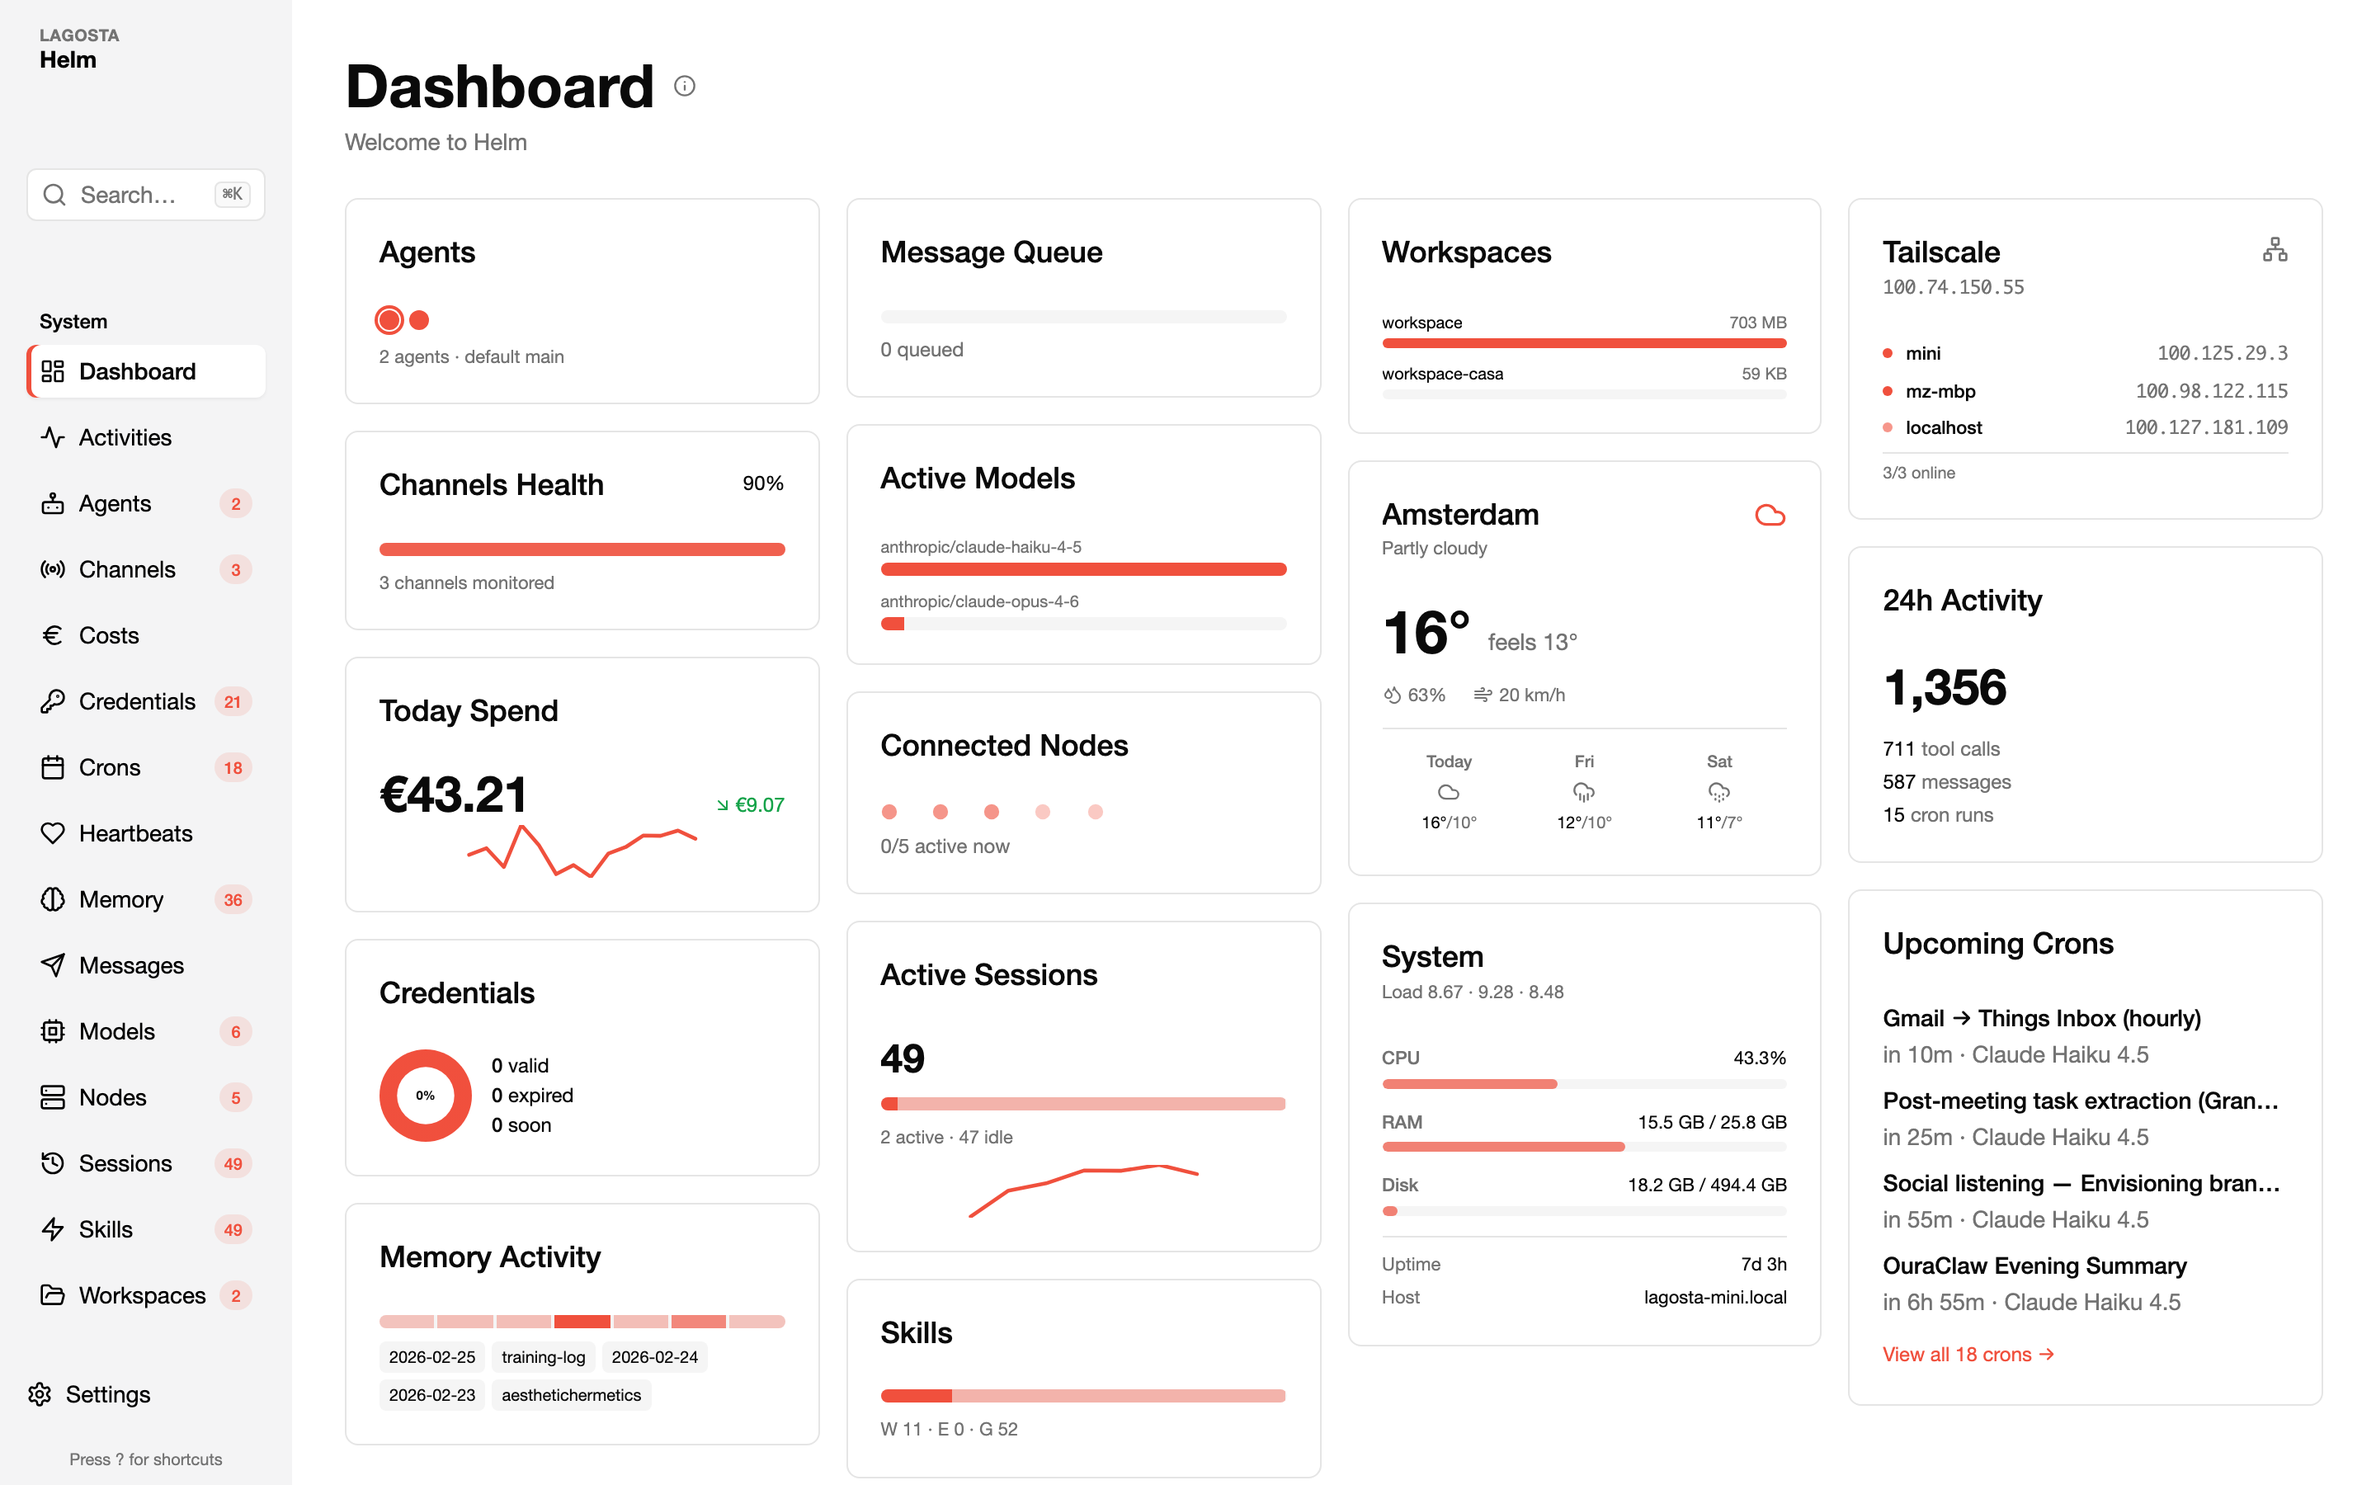
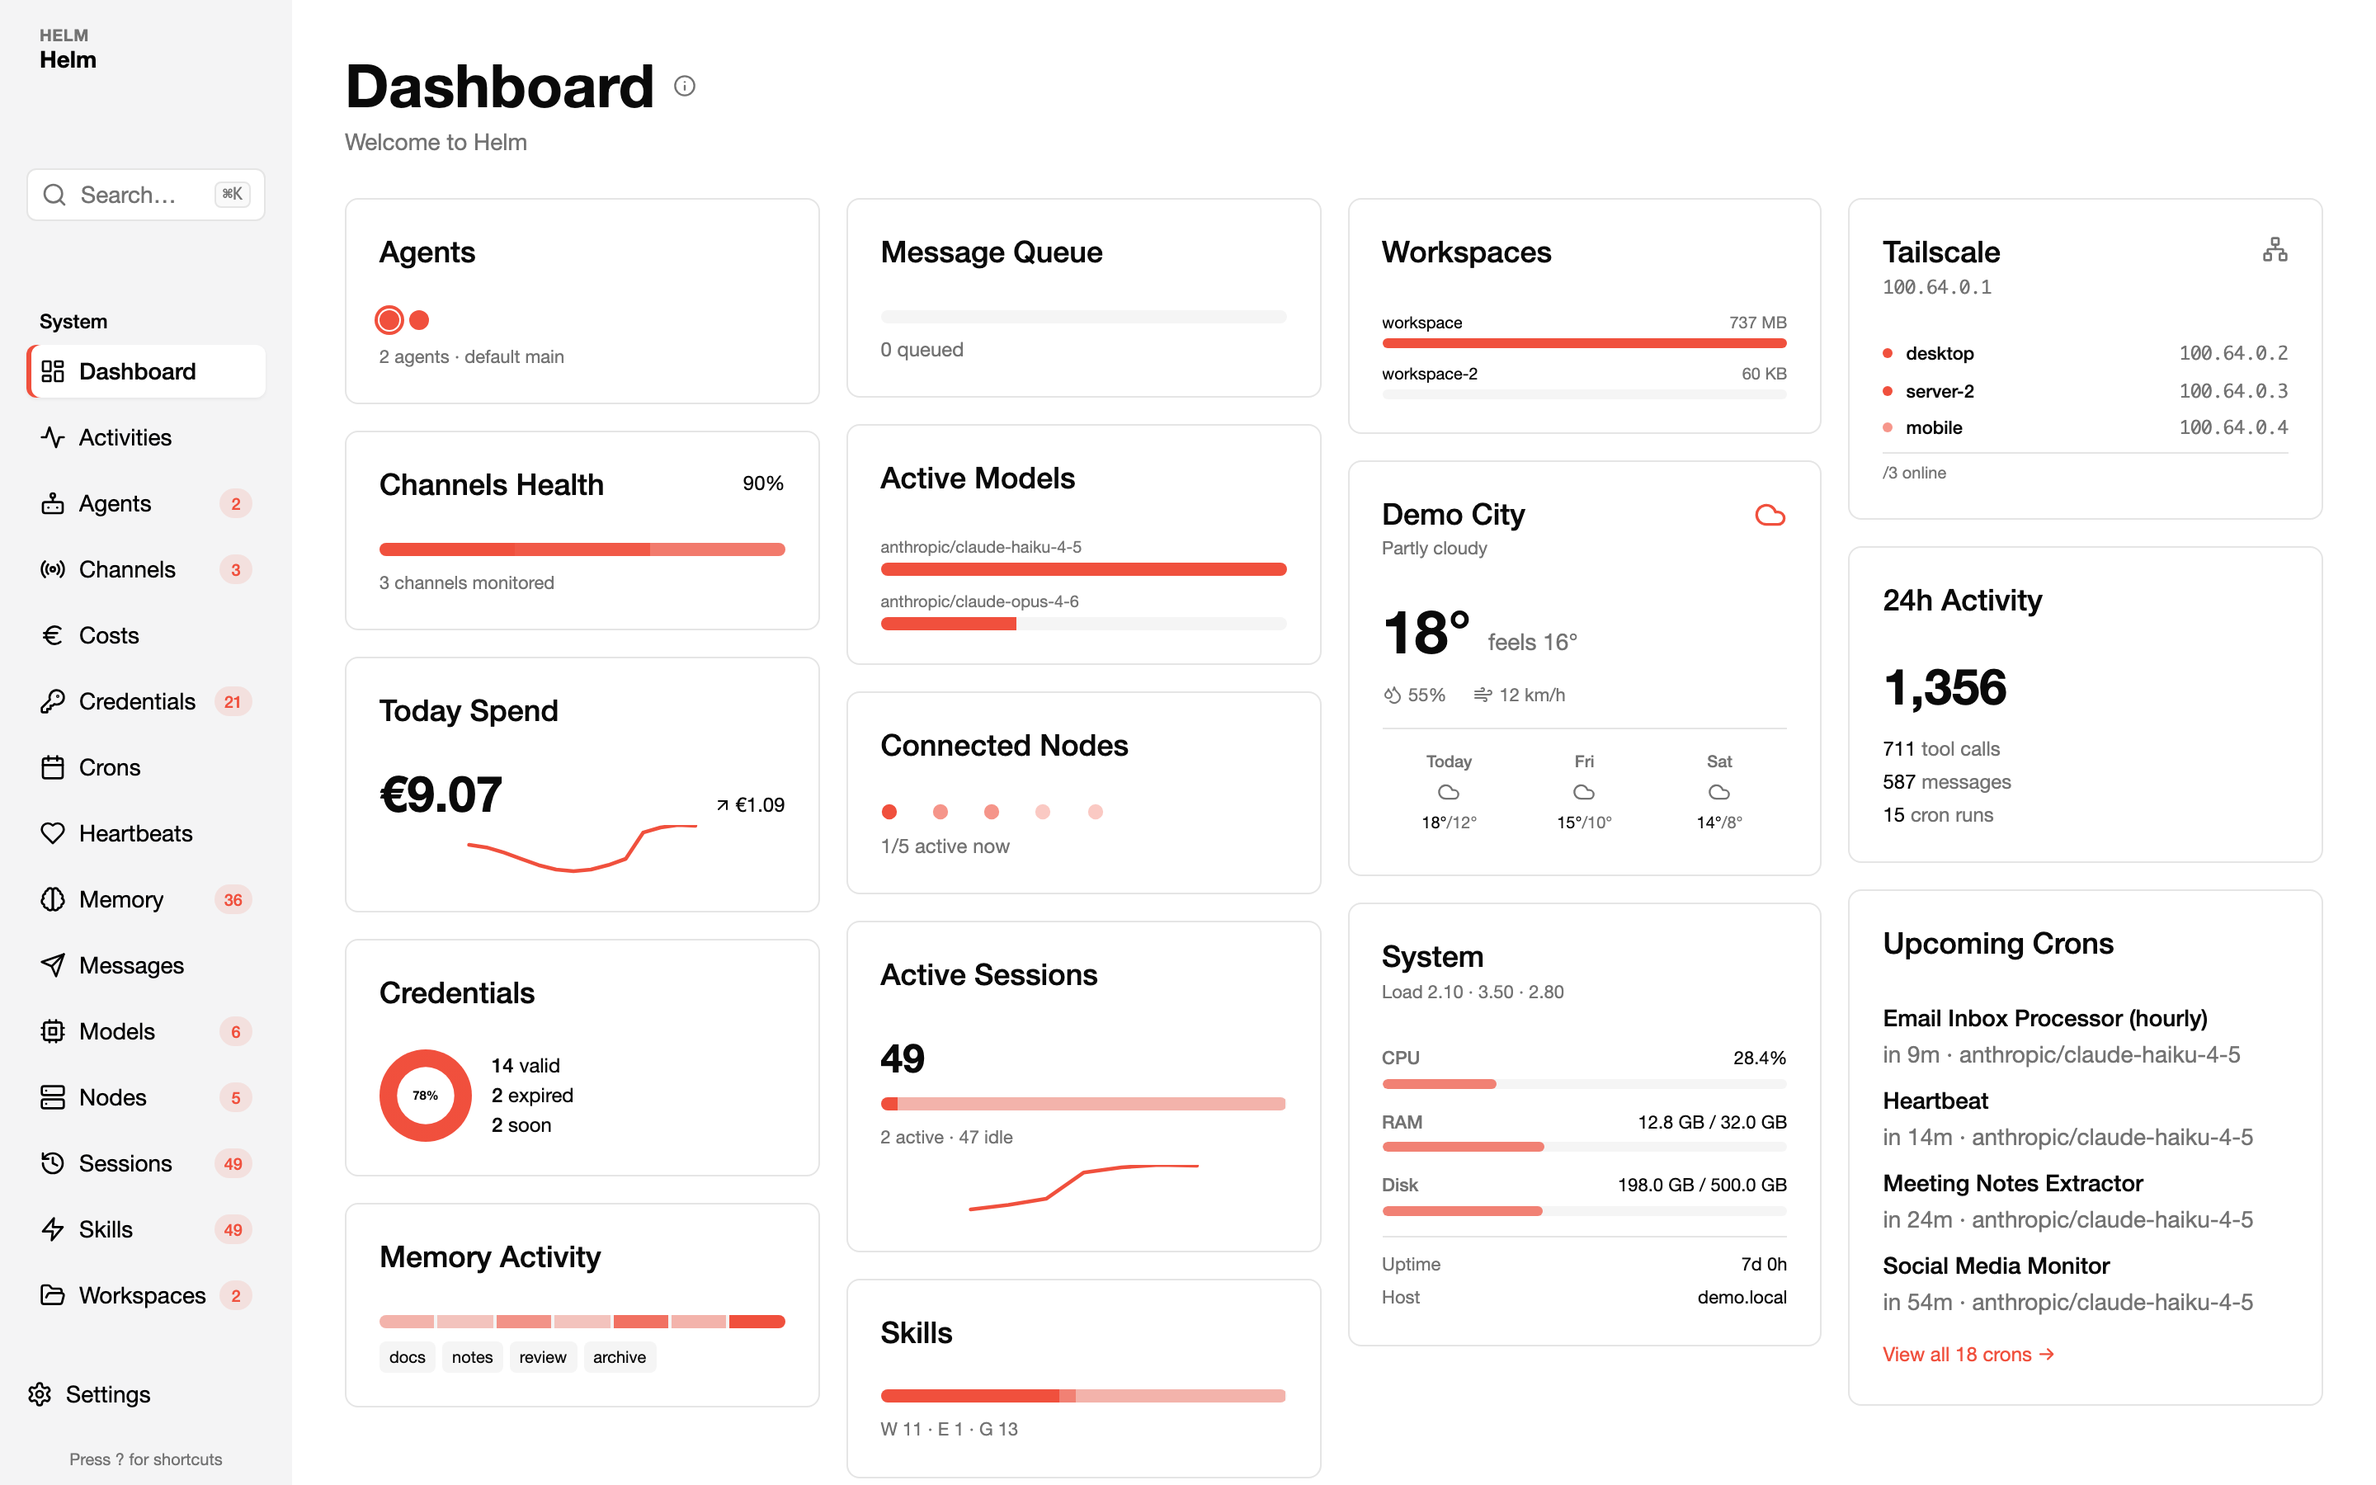
fix: fully sanitize demo fixtures for PII-free screenshots
- Sanitize workspace names (workspace-2 not workspace-casa)
- Change weather location to Demo City (not Amsterdam)
- Generic device names (desktop, server-2, mobile not laptop, pi-zero, phone)
- Generic cron job names (no Gmail, Things, Granola, Oura, Envisioning)
- Generic hostname (demo.local not server.local)
- Generic memory topics (docs, notes not training-log, project-notes)
- Screenshot script overrides NEXT_PUBLIC_AGENT_NAME=Helm and TZ=UTC
- Regenerated public/screenshot.png with clean demo data

diff --git a/lib/demo-fixtures.ts b/lib/demo-fixtures.ts
@@ -91,15 +91,15 @@ export const modelUsage = [
   {
     modelId: "anthropic/claude-haiku-4-5",
     jobs: [
-      { jobId: "cron-a1b2", jobName: "Gmail → Things Inbox (hourly)", modelRef: "haiku" },
-      { jobId: "cron-c3d4", jobName: "Social listening", modelRef: "haiku" },
-      { jobId: "cron-e5f6", jobName: "Post-meeting task extraction", modelRef: "haiku" },
+      { jobId: "cron-a1b2", jobName: "Email Inbox Processor", modelRef: "haiku" },
+      { jobId: "cron-c3d4", jobName: "Social Monitor", modelRef: "haiku" },
+      { jobId: "cron-e5f6", jobName: "Meeting Notes Extractor", modelRef: "haiku" },
     ],
   },
   {
     modelId: "anthropic/claude-opus-4-6",
     jobs: [
-      { jobId: "cron-g7h8", jobName: "Evening summary", modelRef: "opus" },
+      { jobId: "cron-g7h8", jobName: "Daily Summary", modelRef: "opus" },
     ],
   },
 ];
@@ -163,7 +163,7 @@ export const costHistory = {
 // ── /api/workspace-sizes ────────────────────────────────────────────────────
 export const workspaceSizes = [
   { id: "workspace", path: "/home/user/.openclaw/workspace", sizeBytes: 737_280_000 },
-  { id: "workspace-casa", path: "/home/user/.openclaw/workspace-casa", sizeBytes: 60_416 },
+  { id: "workspace-2", path: "/home/user/.openclaw/workspace-2", sizeBytes: 60_416 },
 ];
 
 // ── /api/nodes ──────────────────────────────────────────────────────────────
@@ -177,11 +177,11 @@ export const nodes = [
 
 // ── /api/tailscale ──────────────────────────────────────────────────────────
 export const tailscale = {
-  self: { name: "server", ip: "100.64.0.1" },
+  self: { name: "gateway", ip: "100.64.0.1" },
   peers: [
-    { name: "laptop", ip: "100.64.0.2", online: true, active: true },
-    { name: "pi-zero", ip: "100.64.0.3", online: true, active: true },
-    { name: "phone", ip: "100.64.0.4", online: true, active: false },
+    { name: "desktop", ip: "100.64.0.2", online: true, active: true },
+    { name: "server-2", ip: "100.64.0.3", online: true, active: true },
+    { name: "mobile", ip: "100.64.0.4", online: true, active: false },
   ],
 };
 
@@ -191,22 +191,22 @@ export const system = {
   ram: { usedBytes: 12_800_000_000, totalBytes: 32_000_000_000, pct: 40 },
   disk: { usedBytes: 198_000_000_000, totalBytes: 500_000_000_000, pct: 39.6, mount: "/" },
   uptimeSeconds: 604_800,
-  hostname: "server.local",
+  hostname: "demo.local",
 };
 
 // ── /api/weather ────────────────────────────────────────────────────────────
 export const weather = {
-  location: "Amsterdam",
-  tempC: 16,
-  feelsLikeC: 13,
+  location: "Demo City",
+  tempC: 18,
+  feelsLikeC: 16,
   code: 2,
   desc: "Partly cloudy",
-  humidity: 63,
-  windKmph: 20,
+  humidity: 55,
+  windKmph: 12,
   forecast: [
-    { date: isoDate(NOW), code: 2, desc: "Partly cloudy", maxC: 16, minC: 10 },
-    { date: isoDate(NOW + DAY), code: 3, desc: "Overcast", maxC: 12, minC: 10 },
-    { date: isoDate(NOW + 2 * DAY), code: 1, desc: "Mainly clear", maxC: 11, minC: 7 },
+    { date: isoDate(NOW), code: 2, desc: "Partly cloudy", maxC: 18, minC: 12 },
+    { date: isoDate(NOW + DAY), code: 3, desc: "Overcast", maxC: 15, minC: 10 },
+    { date: isoDate(NOW + 2 * DAY), code: 1, desc: "Mainly clear", maxC: 14, minC: 8 },
   ],
 };
 
@@ -241,12 +241,12 @@ export const memoryActivity = {
     day: isoDate(daysAgo(6 - i)),
     edits: [2, 0, 3, 1, 4, 2, 5][i],
   })),
-  recentTopics: ["training-log", "project-notes", "weekly-review", "meeting-notes"],
+  recentTopics: ["docs", "notes", "review", "archive"],
   recentFiles: [
     { name: isoDate(NOW), mtimeMs: hoursAgo(1) },
-    { name: "training-log", mtimeMs: hoursAgo(6) },
+    { name: "docs", mtimeMs: hoursAgo(6) },
     { name: isoDate(daysAgo(1)), mtimeMs: daysAgo(1) },
-    { name: "project-notes", mtimeMs: daysAgo(2) },
+    { name: "notes", mtimeMs: daysAgo(2) },
   ],
 };
 
@@ -261,32 +261,44 @@ export const memorySummary = {
 
 // ── /api/scheduled-tasks ────────────────────────────────────────────────────
 export const scheduledTasks = [
-  { id: "job-001", name: "Gmail → Things Inbox (hourly)", type: "cron", schedule: "0 * * * *", enabled: true, nextRunAtMs: NOW + 10 * 60_000, lastRunAtMs: hoursAgo(0.5), agent: "main", model: "anthropic/claude-haiku-4-5", status: "ok" },
-  { id: "job-002", name: "Post-meeting task extraction (Granola)", type: "cron", schedule: "*/30 * * * *", enabled: true, nextRunAtMs: NOW + 25 * 60_000, lastRunAtMs: hoursAgo(0.3), agent: "main", model: "anthropic/claude-haiku-4-5", status: "ok" },
-  { id: "job-003", name: "Social listening — Envisioning brand", type: "cron", schedule: "0 */2 * * *", enabled: true, nextRunAtMs: NOW + 55 * 60_000, lastRunAtMs: hoursAgo(1.5), agent: "main", model: "anthropic/claude-haiku-4-5", status: "ok" },
-  { id: "job-004", name: "OuraClaw Evening Summary", type: "cron", schedule: "0 21 * * *", enabled: true, nextRunAtMs: NOW + 6 * HOUR + 55 * 60_000, lastRunAtMs: daysAgo(1), agent: "main", model: "anthropic/claude-haiku-4-5", status: "ok" },
+  { id: "job-001", name: "Email Inbox Processor (hourly)", type: "cron", schedule: "0 * * * *", enabled: true, nextRunAtMs: NOW + 10 * 60_000, lastRunAtMs: hoursAgo(0.5), agent: "main", model: "anthropic/claude-haiku-4-5", status: "ok" },
+  { id: "job-002", name: "Meeting Notes Extractor", type: "cron", schedule: "*/30 * * * *", enabled: true, nextRunAtMs: NOW + 25 * 60_000, lastRunAtMs: hoursAgo(0.3), agent: "main", model: "anthropic/claude-haiku-4-5", status: "ok" },
+  { id: "job-003", name: "Social Media Monitor", type: "cron", schedule: "0 */2 * * *", enabled: true, nextRunAtMs: NOW + 55 * 60_000, lastRunAtMs: hoursAgo(1.5), agent: "main", model: "anthropic/claude-haiku-4-5", status: "ok" },
+  { id: "job-004", name: "Daily Health Summary", type: "cron", schedule: "0 21 * * *", enabled: true, nextRunAtMs: NOW + 6 * HOUR + 55 * 60_000, lastRunAtMs: daysAgo(1), agent: "main", model: "anthropic/claude-haiku-4-5", status: "ok" },
   { id: "job-005", name: "Daily backup", type: "cron", schedule: "0 3 * * *", enabled: true, nextRunAtMs: NOW + 12 * HOUR, lastRunAtMs: hoursAgo(10), agent: "main", model: "anthropic/claude-haiku-4-5", status: "ok" },
   { id: "job-006", name: "Tomorrow's calendar briefing", type: "cron", schedule: "0 22 * * *", enabled: true, nextRunAtMs: NOW + 8 * HOUR, lastRunAtMs: daysAgo(1), agent: "main", model: "anthropic/claude-haiku-4-5", status: "ok" },
   { id: "job-007", name: "Weekly SEO digest", type: "cron", schedule: "0 9 * * 1", enabled: true, nextRunAtMs: NOW + 4 * DAY, lastRunAtMs: daysAgo(3), agent: "main", model: "anthropic/claude-haiku-4-5", status: "ok" },
   { id: "job-008", name: "CRM stale pipeline check", type: "cron", schedule: "0 10 * * 1,4", enabled: true, nextRunAtMs: NOW + 2 * DAY, lastRunAtMs: daysAgo(2), agent: "main", model: "anthropic/claude-haiku-4-5", status: "ok" },
   { id: "job-009", name: "CRM expiring offers", type: "cron", schedule: "0 10 * * 2,5", enabled: true, nextRunAtMs: NOW + 1 * DAY, lastRunAtMs: daysAgo(1), agent: "main", model: "anthropic/claude-haiku-4-5", status: "ok" },
   { id: "job-010", name: "Nightly updates check", type: "cron", schedule: "0 2 * * *", enabled: true, nextRunAtMs: NOW + 11 * HOUR, lastRunAtMs: hoursAgo(11), agent: "main", model: "anthropic/claude-haiku-4-5", status: "ok" },
-  { id: "job-011", name: "Decan daily", type: "cron", schedule: "30 8 * * *", enabled: true, nextRunAtMs: NOW + 18 * HOUR, lastRunAtMs: hoursAgo(5), agent: "main", model: "anthropic/claude-haiku-4-5", status: "ok" },
+  { id: "job-011", name: "Morning briefing", type: "cron", schedule: "30 8 * * *", enabled: true, nextRunAtMs: NOW + 18 * HOUR, lastRunAtMs: hoursAgo(5), agent: "main", model: "anthropic/claude-haiku-4-5", status: "ok" },
   { id: "job-012", name: "Daily reflection", type: "cron", schedule: "0 23 * * *", enabled: true, nextRunAtMs: NOW + 9 * HOUR, lastRunAtMs: daysAgo(1), agent: "main", model: "anthropic/claude-haiku-4-5", status: "ok" },
-  { id: "job-013", name: "Plausible weekly digest", type: "cron", schedule: "0 9 * * 1", enabled: true, nextRunAtMs: NOW + 4 * DAY, lastRunAtMs: daysAgo(5), agent: "main", model: "anthropic/claude-haiku-4-5", status: "ok" },
-  { id: "job-014", name: "Gym plan review", type: "cron", schedule: "0 7 * * 1", enabled: true, nextRunAtMs: NOW + 4 * DAY, lastRunAtMs: daysAgo(4), agent: "main", model: "anthropic/claude-haiku-4-5", status: "ok" },
+  { id: "job-013", name: "Analytics weekly digest", type: "cron", schedule: "0 9 * * 1", enabled: true, nextRunAtMs: NOW + 4 * DAY, lastRunAtMs: daysAgo(5), agent: "main", model: "anthropic/claude-haiku-4-5", status: "ok" },
+  { id: "job-014", name: "Weekly planning review", type: "cron", schedule: "0 7 * * 1", enabled: true, nextRunAtMs: NOW + 4 * DAY, lastRunAtMs: daysAgo(4), agent: "main", model: "anthropic/claude-haiku-4-5", status: "ok" },
   { id: "job-015", name: "Newsletter draft (Sunday)", type: "cron", schedule: "0 15 * * 0", enabled: true, nextRunAtMs: NOW + 3 * DAY, lastRunAtMs: daysAgo(5), agent: "main", model: "anthropic/claude-opus-4-6", status: "ok" },
-  { id: "job-016", name: "GSC weekly report", type: "cron", schedule: "0 9 * * 2", enabled: true, nextRunAtMs: NOW + 5 * DAY, lastRunAtMs: daysAgo(5), agent: "main", model: "anthropic/claude-haiku-4-5", status: "ok" },
-  { id: "job-017", name: "Gumroad sales check", type: "cron", schedule: "0 10 * * *", enabled: true, nextRunAtMs: NOW + 20 * HOUR, lastRunAtMs: hoursAgo(4), agent: "main", model: "anthropic/claude-haiku-4-5", status: "ok" },
+  { id: "job-016", name: "Search console report", type: "cron", schedule: "0 9 * * 2", enabled: true, nextRunAtMs: NOW + 5 * DAY, lastRunAtMs: daysAgo(5), agent: "main", model: "anthropic/claude-haiku-4-5", status: "ok" },
+  { id: "job-017", name: "Store sales check", type: "cron", schedule: "0 10 * * *", enabled: true, nextRunAtMs: NOW + 20 * HOUR, lastRunAtMs: hoursAgo(4), agent: "main", model: "anthropic/claude-haiku-4-5", status: "ok" },
   { id: "job-018", name: "Heartbeat", type: "cron", schedule: "*/30 * * * *", enabled: true, nextRunAtMs: NOW + 15 * 60_000, lastRunAtMs: hoursAgo(0.2), agent: "main", model: "anthropic/claude-haiku-4-5", status: "ok" },
 ];
 
 // ── /api/activity ───────────────────────────────────────────────────────────
 export const activity = {
-  toolCalls: 711,
-  messages: 587,
-  cronRuns: 15,
-  total: 1356,
+  daily: Array.from({ length: 30 }, (_, i) => ({
+    date: isoDate(daysAgo(29 - i)),
+    user: 30 + Math.round(Math.sin(i * 0.4) * 15) + (i > 25 ? 10 : 0),
+    system: 15 + Math.round(Math.cos(i * 0.3) * 8),
+  })),
+  hourly: [2,1,0,1,0,1,3,8,15,22,28,25,20,24,26,22,18,14,10,8,6,5,4,3],
+  channels: [
+    { name: "telegram", label: "Telegram", count: 320 },
+    { name: "discord", label: "Discord", count: 187 },
+    { name: "whatsapp", label: "WhatsApp", count: 80 },
+  ],
+  cron: { success: 14, fail: 1, total: 15 },
+  totalEvents: 1356,
+  logDays: 30,
+  logSource: "demo",
+  errors: [],
 };
 
 // ── /api/counts ─────────────────────────────────────────────────────────────

diff --git a/pages/api/activities.ts b/pages/api/activities.ts
@@ -402,7 +402,17 @@ async function collectActivities(since: number): Promise<Activity[]> {
   return activities;
 }
 
+import { DEMO_MODE } from "../../lib/demo";
+
 export default async function handler(req: NextApiRequest, res: NextApiResponse) {
+  if (DEMO_MODE) {
+    const type = String(req.query.type ?? "");
+    const totals: Record<string, number> = {
+      "": 1356, "tool_call": 711, "user_message,assistant_message": 587, "cron_run": 15,
+    };
+    return res.status(200).json({ activities: [], total: totals[type] ?? 100 });
+  }
+
   if (req.method !== "GET") {
     res.status(405).json({ error: "Method not allowed" });
     return;
